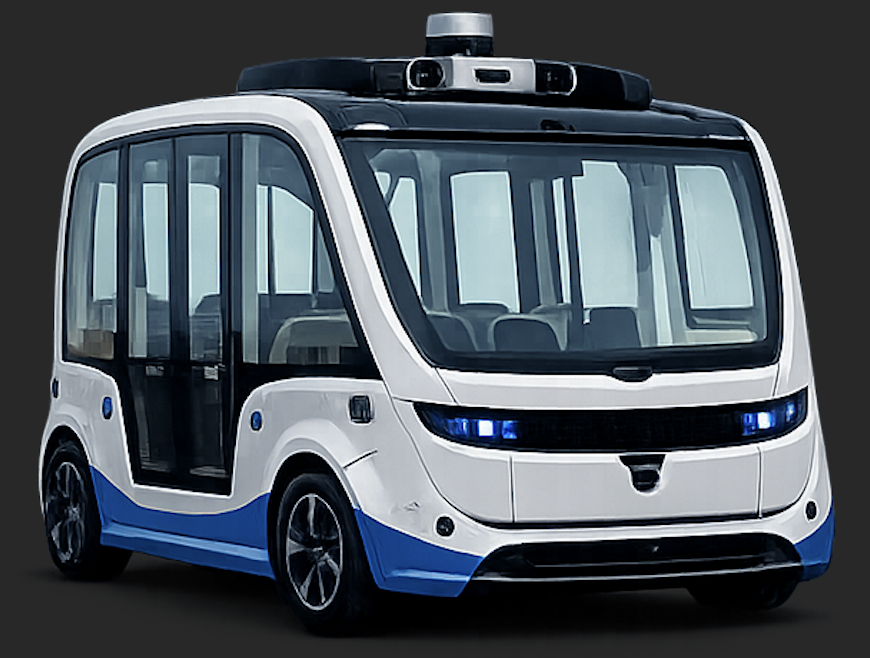
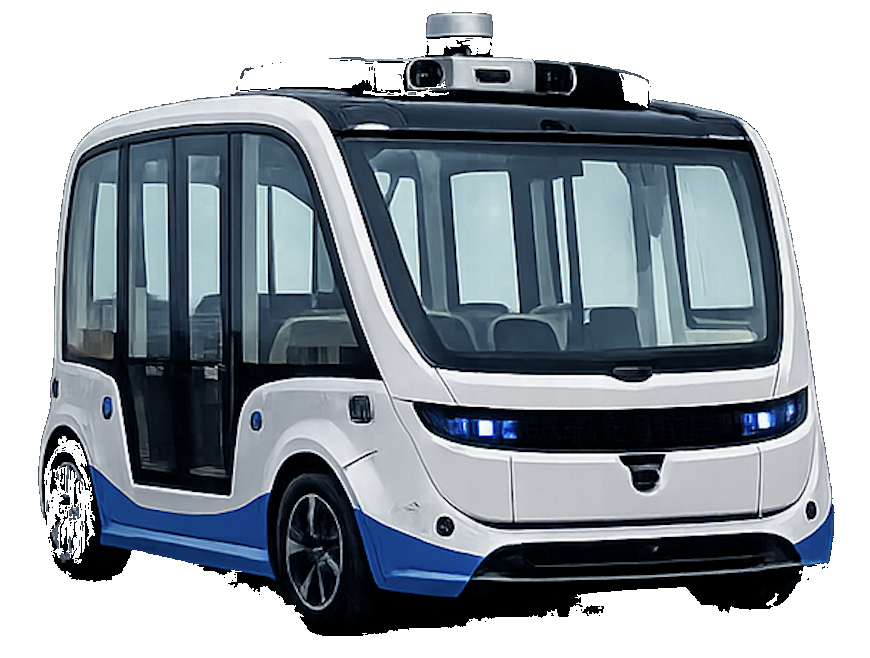
Remove gray backgrounds from vehicle images; alternating left/right swoosh
- Flood-fill background removal (tolerance 38) on pod.png, suv.png, shuttle.png
  using connected-component fill from image edges; vehicles now transparent PNGs
- Pod and shuttle enter from the right (translateX 160px → 0), positioned right
- SUV enters from the left (translateX -160px → 0), positioned left, alternating
- Increased translate distance and tightened easing to cubic-bezier(.22,1,.36,1)
  for a more dramatic swoosh feel; opacity raised to 0.22

diff --git a/index.html b/index.html
@@ -724,9 +724,15 @@
   .sw-card-hdr.open .sw-caret{transform:rotate(180deg)}
 
   /* ── Dashboard vehicle scroll reveal ── */
-  .dvb{position:fixed;inset:0;z-index:0;pointer-events:none;display:flex;align-items:center;justify-content:flex-end;padding-right:3%}
-  .dvb img{width:58%;max-height:88vh;object-fit:contain;opacity:0;transform:scale(0.84) translateX(40px);transition:opacity 0.9s cubic-bezier(.16,1,.3,1),transform 0.9s cubic-bezier(.16,1,.3,1)}
-  .dvb.dvb-on img{opacity:0.18;transform:scale(1) translateX(0)}
+  .dvb{position:fixed;inset:0;z-index:0;pointer-events:none;display:flex;align-items:center}
+  /* Pod + Shuttle enter from right, sit on right side */
+  #dvb-pod,#dvb-shuttle{justify-content:flex-end;padding-right:3%}
+  #dvb-pod img,#dvb-shuttle img{transform:scale(0.86) translateX(160px)}
+  /* SUV enters from left, sits on left side */
+  #dvb-suv{justify-content:flex-start;padding-left:3%}
+  #dvb-suv img{transform:scale(0.86) translateX(-160px)}
+  .dvb img{width:56%;max-height:86vh;object-fit:contain;opacity:0;transition:opacity 0.85s cubic-bezier(.22,1,.36,1),transform 0.85s cubic-bezier(.22,1,.36,1)}
+  .dvb.dvb-on img{opacity:0.22;transform:scale(1) translateX(0)}
 </style>
 </head>
 <body>
